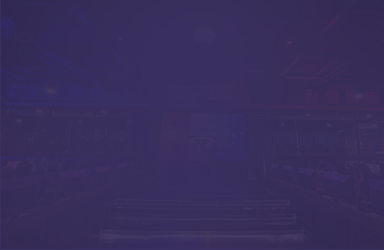
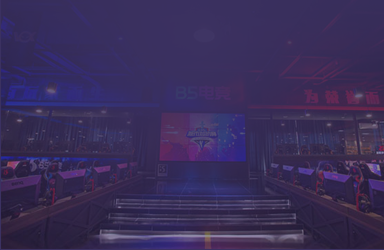
pageNaver

diff --git a/src/components/home/pageNaver.vue b/src/components/home/pageNaver.vue
@@ -4,11 +4,12 @@
 			<div v-for="item in items" 
 				 class="naver-item" 
 				 v-bind:class="item.className" 
-				 v-on:mouseover="playAudio($event)"
-				 v-on:mouseout="stopAudio($event)">
+				 v-on:mouseover="playAudio($event, item.imgActiveSrc)"
+				 v-on:mouseout="stopAudio($event, item.imgSrc)">
 
-				<div class="img"></div>
+				<img :src="item.imgSrc">
 				<div class="name">{{item.textName}}</div>
+				<div class="naver-item-overlay"></div>
 				<audio v-bind:src="item.audioSrc">您的浏览器不支持 audio 标签。</audio>
 			</div>
 		</div>
@@ -18,6 +19,16 @@
 <script>
 	import mp31 from '../../assets/live.mp3';
 	import mp32 from '../../assets/sport.mp3';
+	import naverSportImg from '../../assets/naver-sport-img.png';
+	import naverSportImgActive from '../../assets/naver-sport-img-active.png';
+	import naverSlotImg from '../../assets/naver-slot-img.png';
+	import naverSlotImgActive from '../../assets/naver-slot-img-active.png';
+	import naverLiveImg from '../../assets/naver-live-img.png';
+	import naverLiveImgActive from '../../assets/naver-live-img-active.png';
+	import naverEgamingImg from '../../assets/naver-egaming-img.png';
+	import naverEgamingImgActive from '../../assets/naver-egaming-img-active.png';
+	import naverLotteryImg from '../../assets/naver-lottery-img.png';
+	import naverLotteryImgActive from '../../assets/naver-lottery-img-active.png';
 
 	export default {
 		name: 'page-naver',
@@ -26,29 +37,39 @@
 			return {
 				items: [
 					{
-						className: 'naver-sport',
-						audioSrc : mp31,
-						textName : '体育竞技'
+						className    : 'naver-sport',
+						audioSrc     : mp31,
+						textName     : '体育竞技',
+						imgSrc       : naverSportImg,
+						imgActiveSrc : naverSportImgActive,
 					},
 					{
 						className: 'naver-live',
 						audioSrc : mp32,
-						textName : '真人娱乐'
+						textName : '真人娱乐',
+						imgSrc       : naverLiveImg,
+						imgActiveSrc : naverLiveImgActive,
 					},
 					{
 						className: 'naver-slot',
 						audioSrc : mp31,
-						textName : '电子游艺'
+						textName : '电子游艺',
+						imgSrc       : naverSlotImg,
+						imgActiveSrc : naverSlotImgActive,
 					},
 					{
 						className: 'naver-lottery',
 						audioSrc : mp32,
-						textName : '彩票游戏'
+						textName : '彩票游戏',
+						imgSrc       : naverLotteryImg,
+						imgActiveSrc : naverLotteryImgActive
 					},
 					{
 						className: 'naver-egaming',
 						audioSrc : mp31,
-						textName : '电子竞技'
+						textName : '电子竞技',
+						imgSrc       : naverEgamingImg,
+						imgActiveSrc : naverEgamingImgActive
 					}
 				]
 			}
@@ -58,7 +79,7 @@
 		},
 
 		methods: {
-			playAudio: function (event) {
+			playAudio: function (event, imgActiveSrc) {
 				//【1】 关于v-ref在v-for里面使用的问题:
 				// As I mentioned in the previous issue, v-ref inside v-for is a rabbit hole, 
 				// supporting it leads to more problems than convenience 
@@ -66,10 +87,12 @@
 
 				//【2】 注意元素绑定方法是传参的方法： $event
 				event.currentTarget.querySelector('audio').play();
+				event.currentTarget.querySelector('img').src = imgActiveSrc;
 			},
 
-			stopAudio: function (event) {
+			stopAudio: function (event, imgSrc) {
 				event.currentTarget.querySelector('audio').pause();
+				event.currentTarget.querySelector('img').src = imgSrc;
 			}
 		}
 	}
@@ -97,12 +120,12 @@
 				text-align: center;
 				position: relative;
 
-				.img {
-				    height: 100%;
-				    background-size: 100%;
-				    margin-top: -30%;
-				    background-repeat: no-repeat;
-				    transition: all .1s;
+				img {
+					display: inline-block;
+				    position: absolute;
+				    bottom: 24%;
+				    left: 0;
+				    width: 100%;
 				}
 
 				.name {
@@ -119,6 +142,15 @@
 					transition: all .1s;
 				}
 
+				.naver-item-overlay {
+					position: absolute;
+					top: 0;
+					left: 0;
+					right: 0;
+					bottom: 0;
+					background-color: rgba(10, 9, 39, 0.4);
+				}
+
 				audio {
 					display: none;
 				}
@@ -126,6 +158,10 @@
 				&:hover {
 					.name {
 						color: #FFF;
+					}
+
+					.naver-item-overlay {
+						display: none;
 					}
 
 					audio {
@@ -136,82 +172,22 @@
 
 			.naver-sport {
 				background-image: url(../../assets/naver-sport.png);
-
-				.img {
-					background-image: url(../../assets/naver-sport-img.png);
-				}
-
-				&:hover {
-					background-image: url(../../assets/naver-sport-active.png);
-
-					.img {
-						background-image: url(../../assets/naver-sport-img-active.png);
-					}
-				}
 			}
 
 			.naver-live {
 				background-image: url(../../assets/naver-live.png);
-
-				.img {
-					background-image: url(../../assets/naver-live-img.png);
-				}
-
-				&:hover {
-					background-image: url(../../assets/naver-live-active.png);
-
-					.img {
-						background-image: url(../../assets/naver-live-img-active.png);
-					}
-				}
 			}
 
 			.naver-slot {
 				background-image: url(../../assets/naver-slot.png);
-
-				.img {
-					background-image: url(../../assets/naver-slot-img.png);
-				}
-
-				&:hover {
-					background-image: url(../../assets/naver-slot-active.png);
-
-					.img {
-						background-image: url(../../assets/naver-slot-img-active.png);
-					}
-				}
 			}
 
 			.naver-lottery {
 				background-image: url(../../assets/naver-lottery.png);
-
-				.img {
-					background-image: url(../../assets/naver-lottery-img.png);
-				}
-
-				&:hover {
-					background-image: url(../../assets/naver-lottery-active.png);
-
-					.img {
-						background-image: url(../../assets/naver-lottery-img-active.png);
-					}
-				}
 			}
 
 			.naver-egaming {
 				background-image: url(../../assets/naver-egaming.png);
-
-				.img {
-					background-image: url(../../assets/naver-egaming-img.png);
-				}
-
-				&:hover {
-					background-image: url(../../assets/naver-egaming-active.png);
-
-					.img {
-						background-image: url(../../assets/naver-egaming-img-active.png);
-					}
-				}
 			}
 		}
 	}
